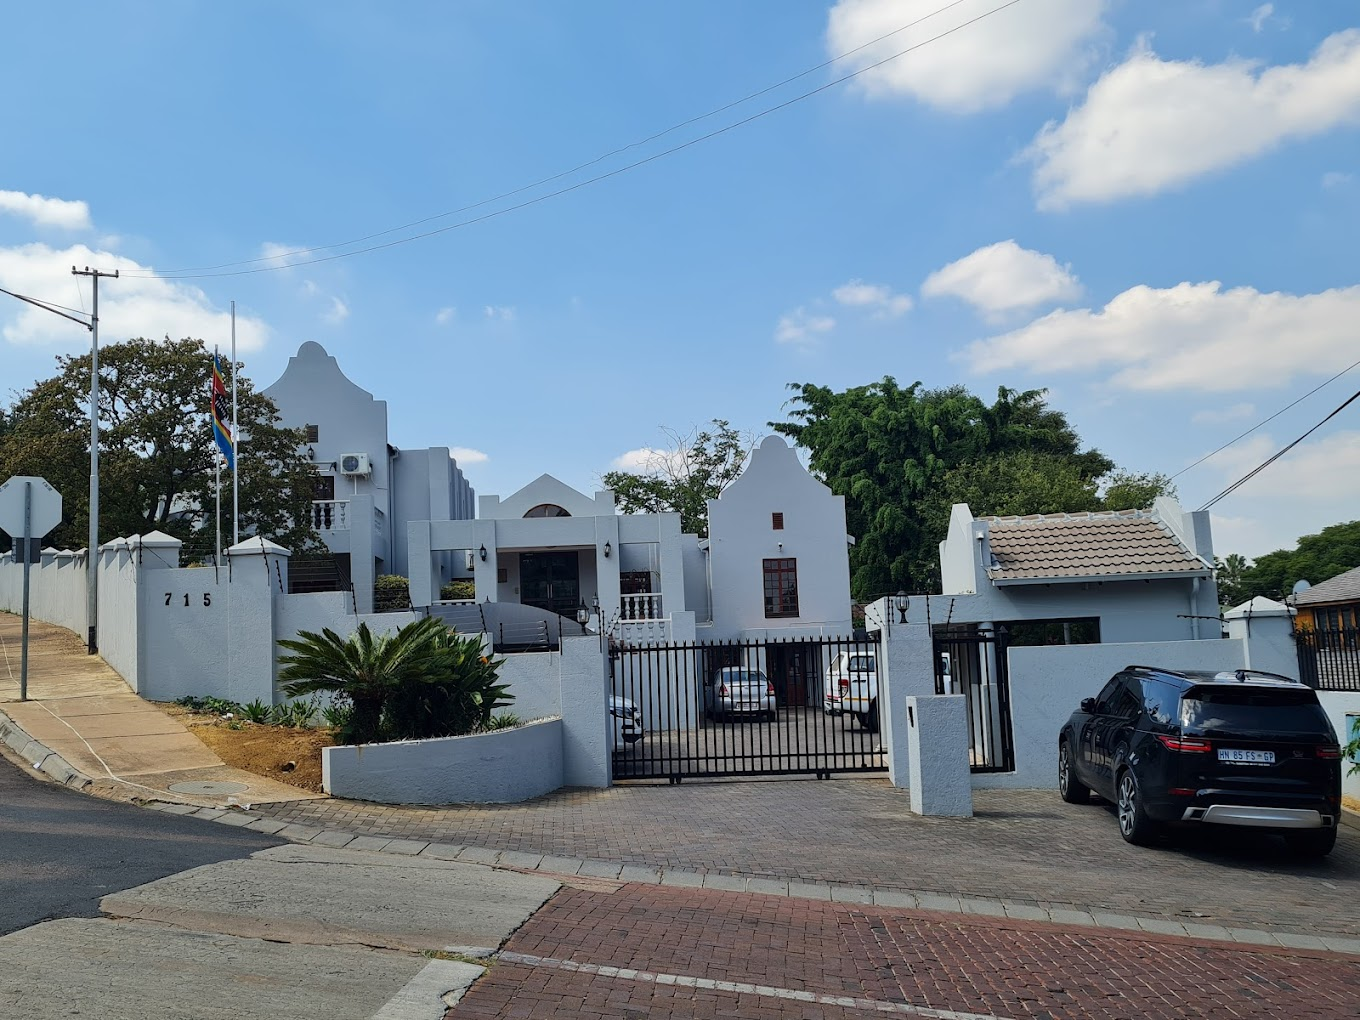
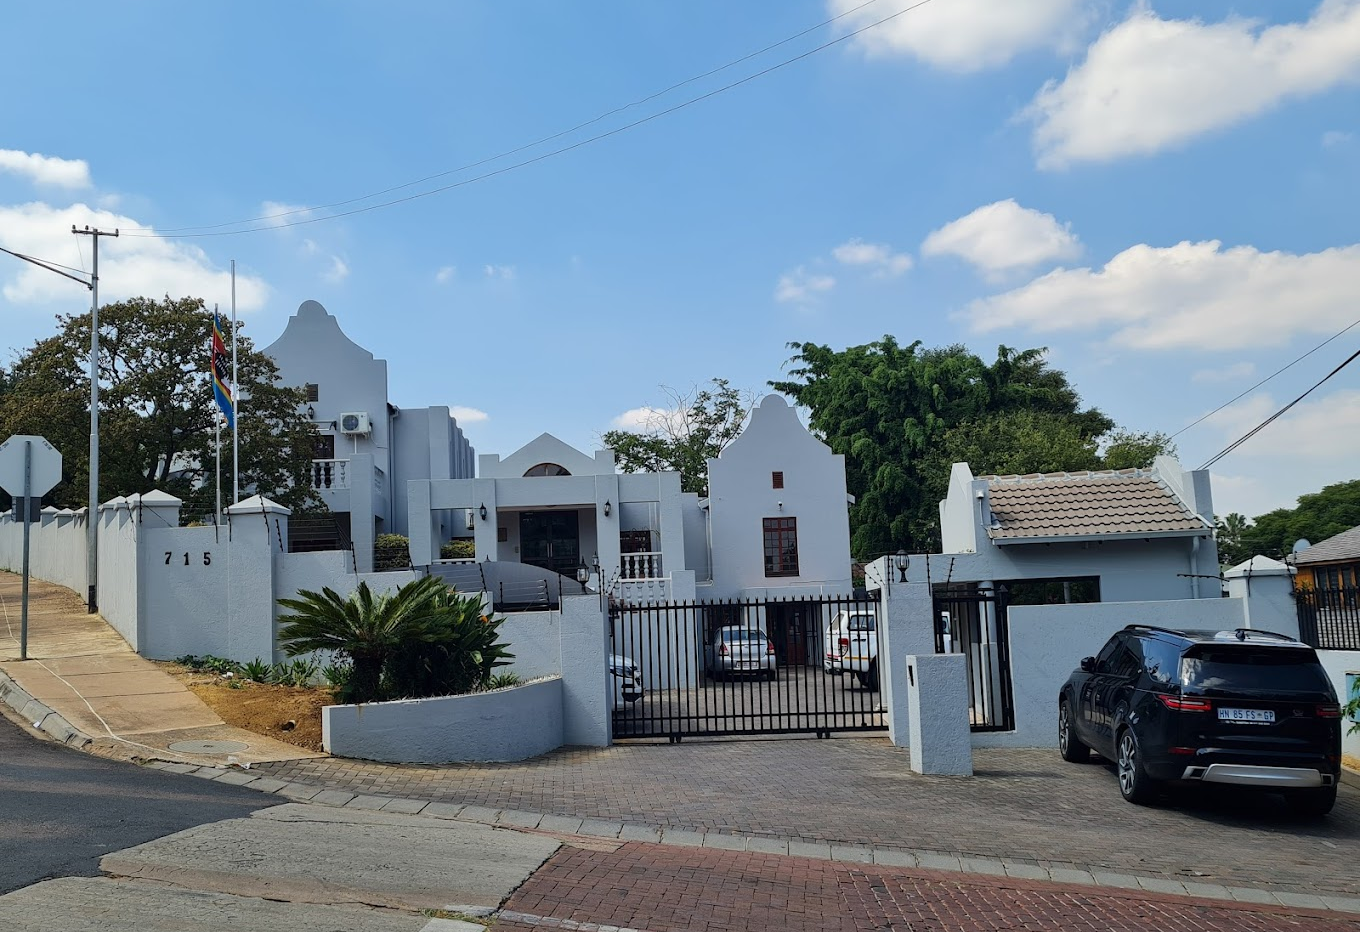
updated contact image

diff --git a/src/views/ContactPage.js b/src/views/ContactPage.js
@@ -1,7 +1,7 @@
 import React from 'react';
 import './ContactPage.css';
 // import SidePanel from '../components/SidePanel';
-import contactImage from './content/phophonyane-falls.png';
+import contactImage from './content/high commission pretoria.png';
 
 
 const ContactPage = () => {

diff --git a/src/views/DiscoverEswatini.css b/src/views/DiscoverEswatini.css
@@ -47,6 +47,7 @@
   width: 100%;
   height: auto; /* Keeps the aspect ratio of the image */
   object-fit: cover; /* Ensures the image covers the area without stretching */
+  border-radius: 10px;
 }
 
 .text-container {

diff --git a/src/views/ContactPage.css b/src/views/ContactPage.css
@@ -4,8 +4,9 @@
 
 .ContactPage img {
   height: 400px;
-  width: 95%;
-  margin-top: 20px;
+  width: 100%;
+  object-fit: cover;
+  margin: 20px;
 }
 
 .ContactPage section {

diff --git a/src/views/HomePage.css b/src/views/HomePage.css
@@ -68,3 +68,8 @@
   padding: 40px;
   margin: 30px;
 }
+
+.homepage img {
+  width: 100%;
+  object-fit: cover;
+}
